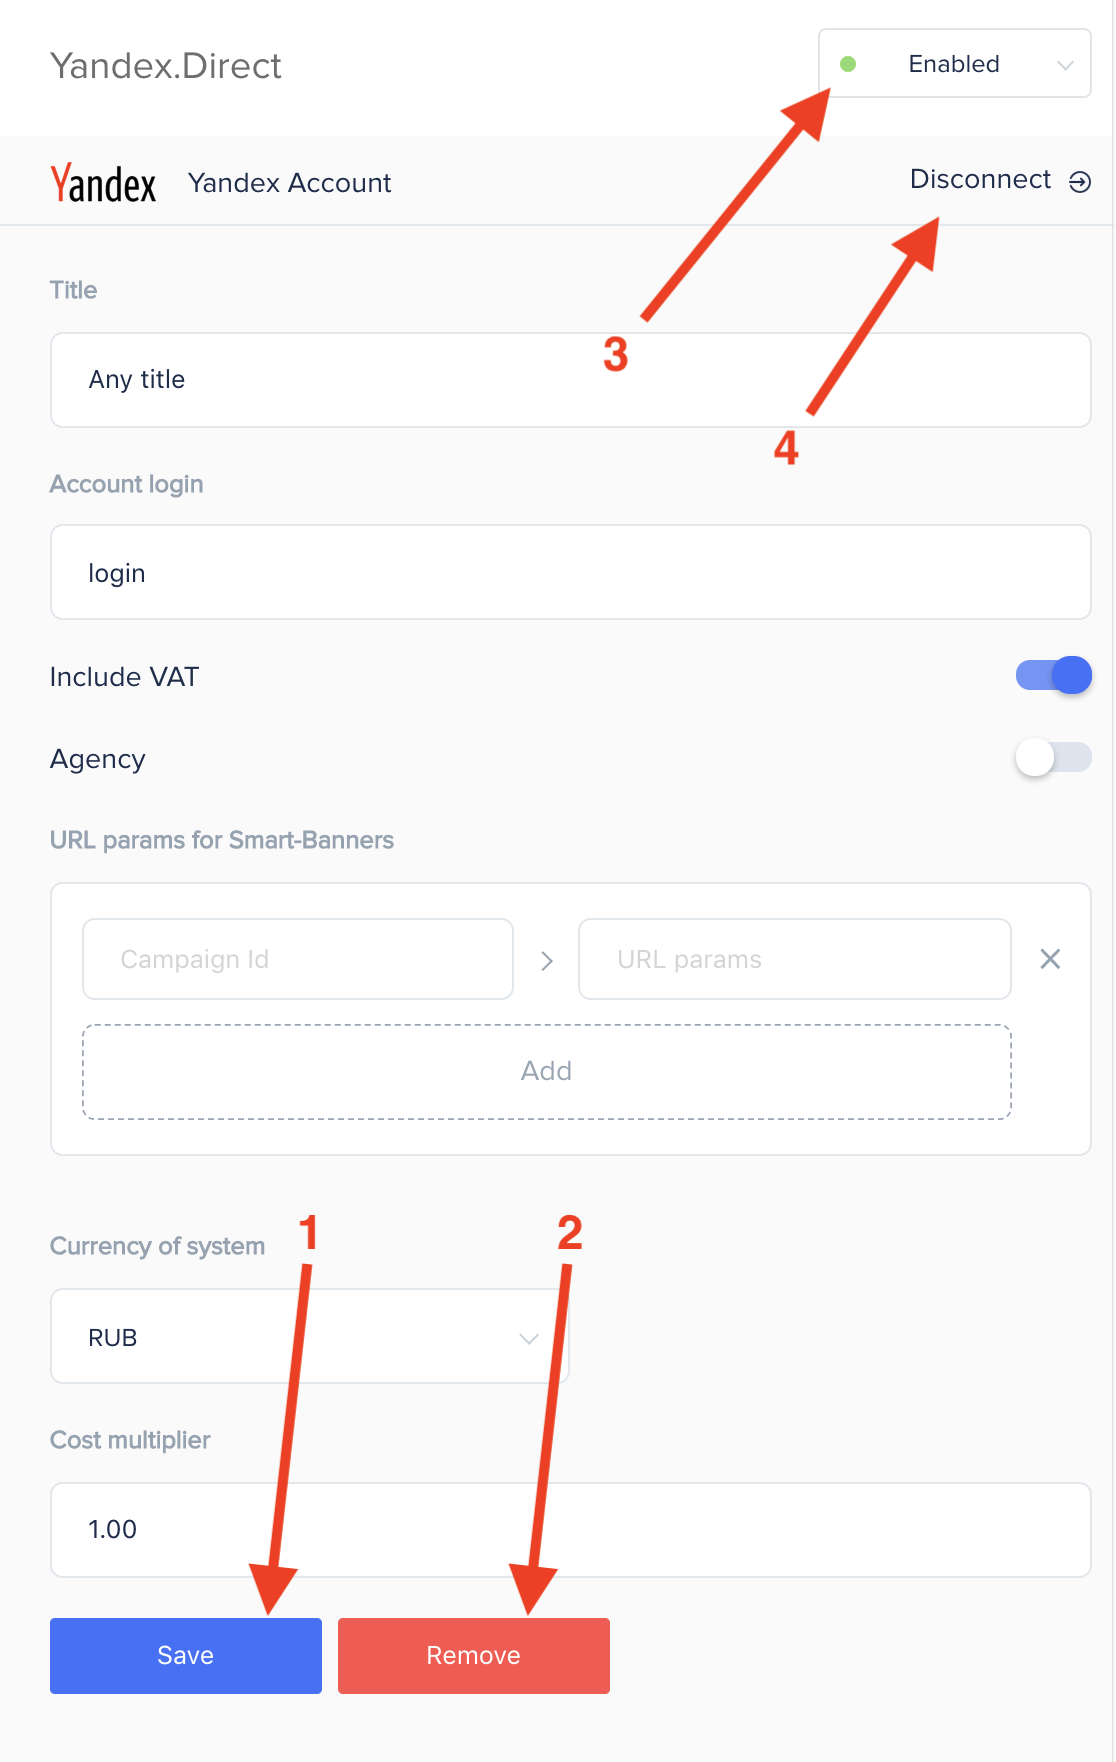
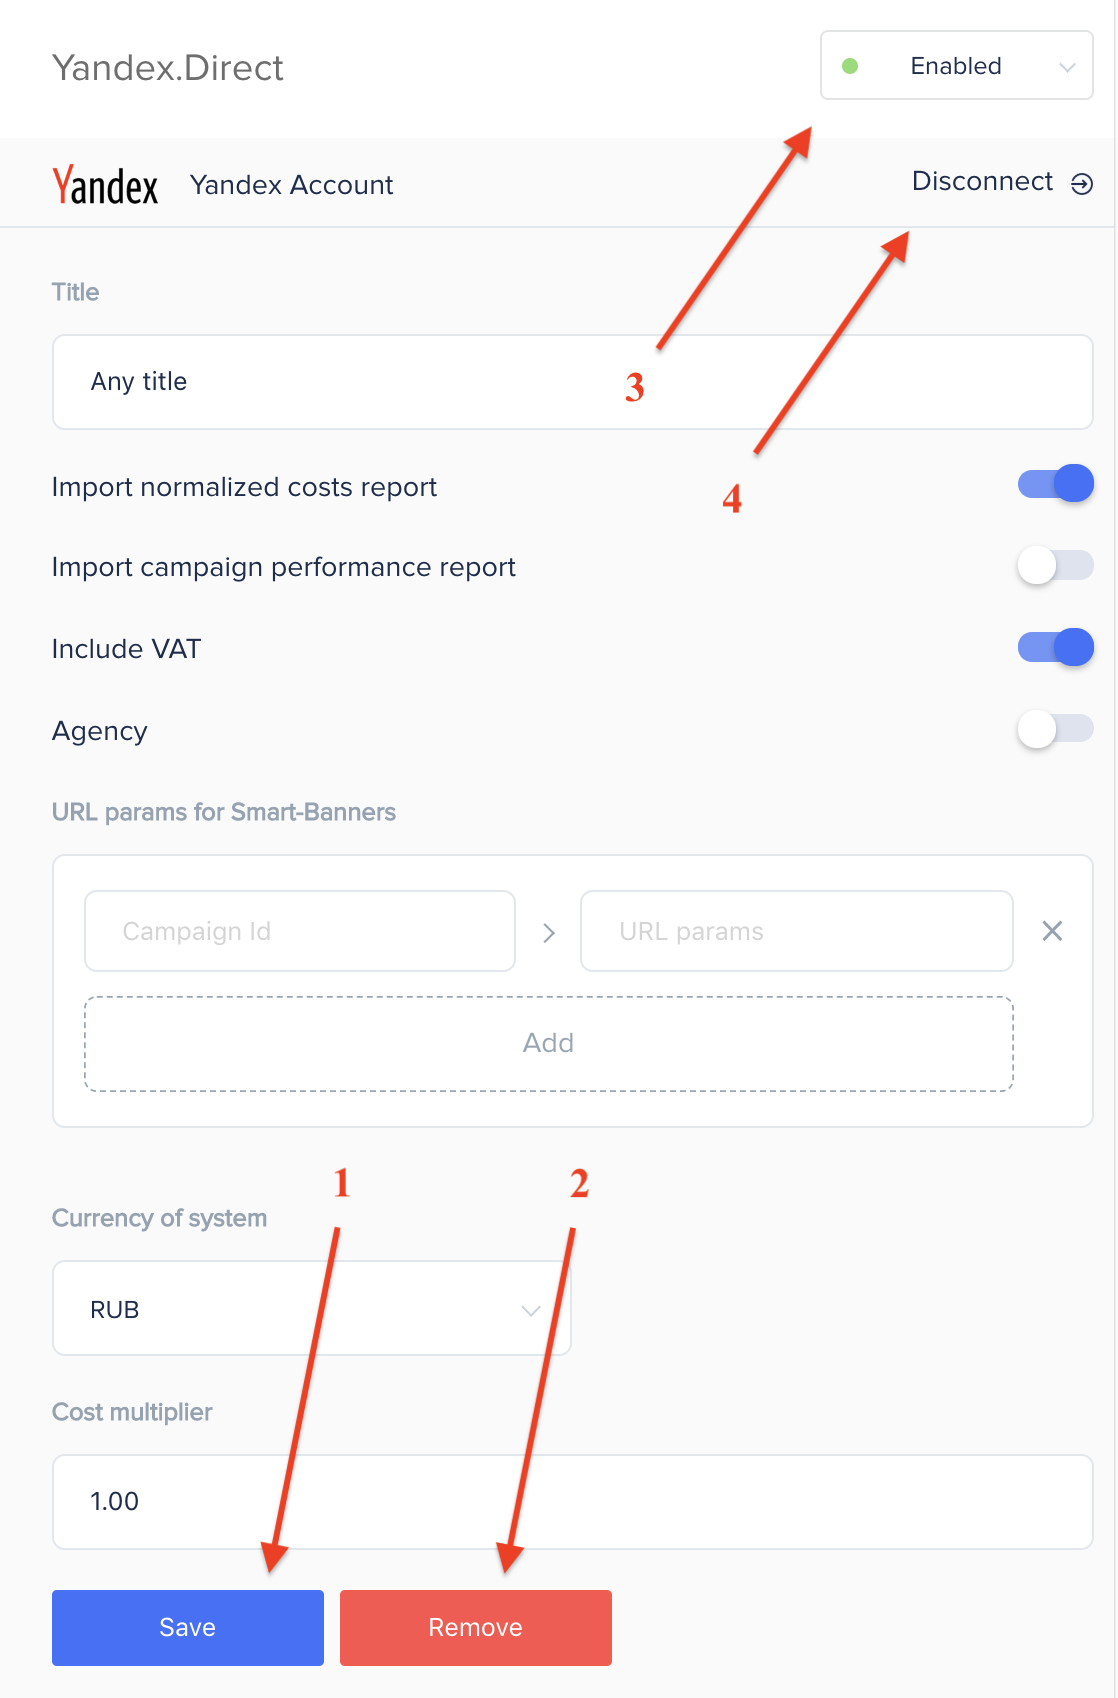
Updated Yandex.Direct page

diff --git a/_docs/datasources/yandex direct.md b/_docs/datasources/yandex direct.md
@@ -23,21 +23,23 @@ After authorization you need to set the data source parameters.
 
 (1) The name of the data source. It is displayed in the interface in the list of sources.
 
-(2) Customer login. It will be used as part of the table name so that when connecting multiple Yandex.Direct data sources, it can be easily distinguished as to which data source the table belongs to.
+(2) Enable option for import normalized costs report
 
-(3) Take into account the VAT. If you do not check the box, the prices in the report will be exclusive of VAT.
+(3) Enable option for import campaign performance report
 
-(4) The data source belongs to the agency. See Customization for advertising agencies.
+(4) Take into account the VAT. If you do not check the box, the prices in the report will be exclusive of VAT.
 
-(5) Account currency. Select the currency in which the data is displayed in the advertising account.
+(5) The data source belongs to the agency. See Customization for advertising agencies.
 
-(6) Value multiplier. Multiplied by the cost in the final report.
+(6) Account currency. Select the currency in which the data is displayed in the advertising account.
+
+(7) Value multiplier. Multiplied by the cost in the final report.
 
 If you use smart banners for advertising, you must fill in the parameters (7) and (8).
 
-(7) Smart banner advertising campaign identifier.
+(8) Smart banner advertising campaign identifier.
 
-(8) Utm parameters of the url for the smart banner are copied from the settings of the Yandex.Direct advertising account: **Editing active smart banners** → **URL parameters**.
+(9) Utm parameters of the url for the smart banner are copied from the settings of the Yandex.Direct advertising account: **Editing active smart banners** → **URL parameters**.
 
 Example: `utm_source=yandex&utm_medium=cpc&utm_campaign={campaign_id}&utm_term={keyword}&utm_content={phrase_id}`
 
@@ -67,9 +69,7 @@ The "Disconnect" button (4) is used to revoke the authorization data. The settin
 
 After the data source runs, the following tables will be created in BigQuery:
 
-yandexDirectReport_{login}_{DATE} - full report downloaded from Yandex.Direct
-
-yandexDirectAds_{login}_{DATE} - advertisements that were shown on a given day
+yandexDirectCampaignPerformance_{login}_{DATE} - full campaign performance report downloaded from Yandex.Direct
 
 yandexDirectCosts_{login}_{DATE} - report containing information on clicks, impressions and cost in the context of advertisements
 
